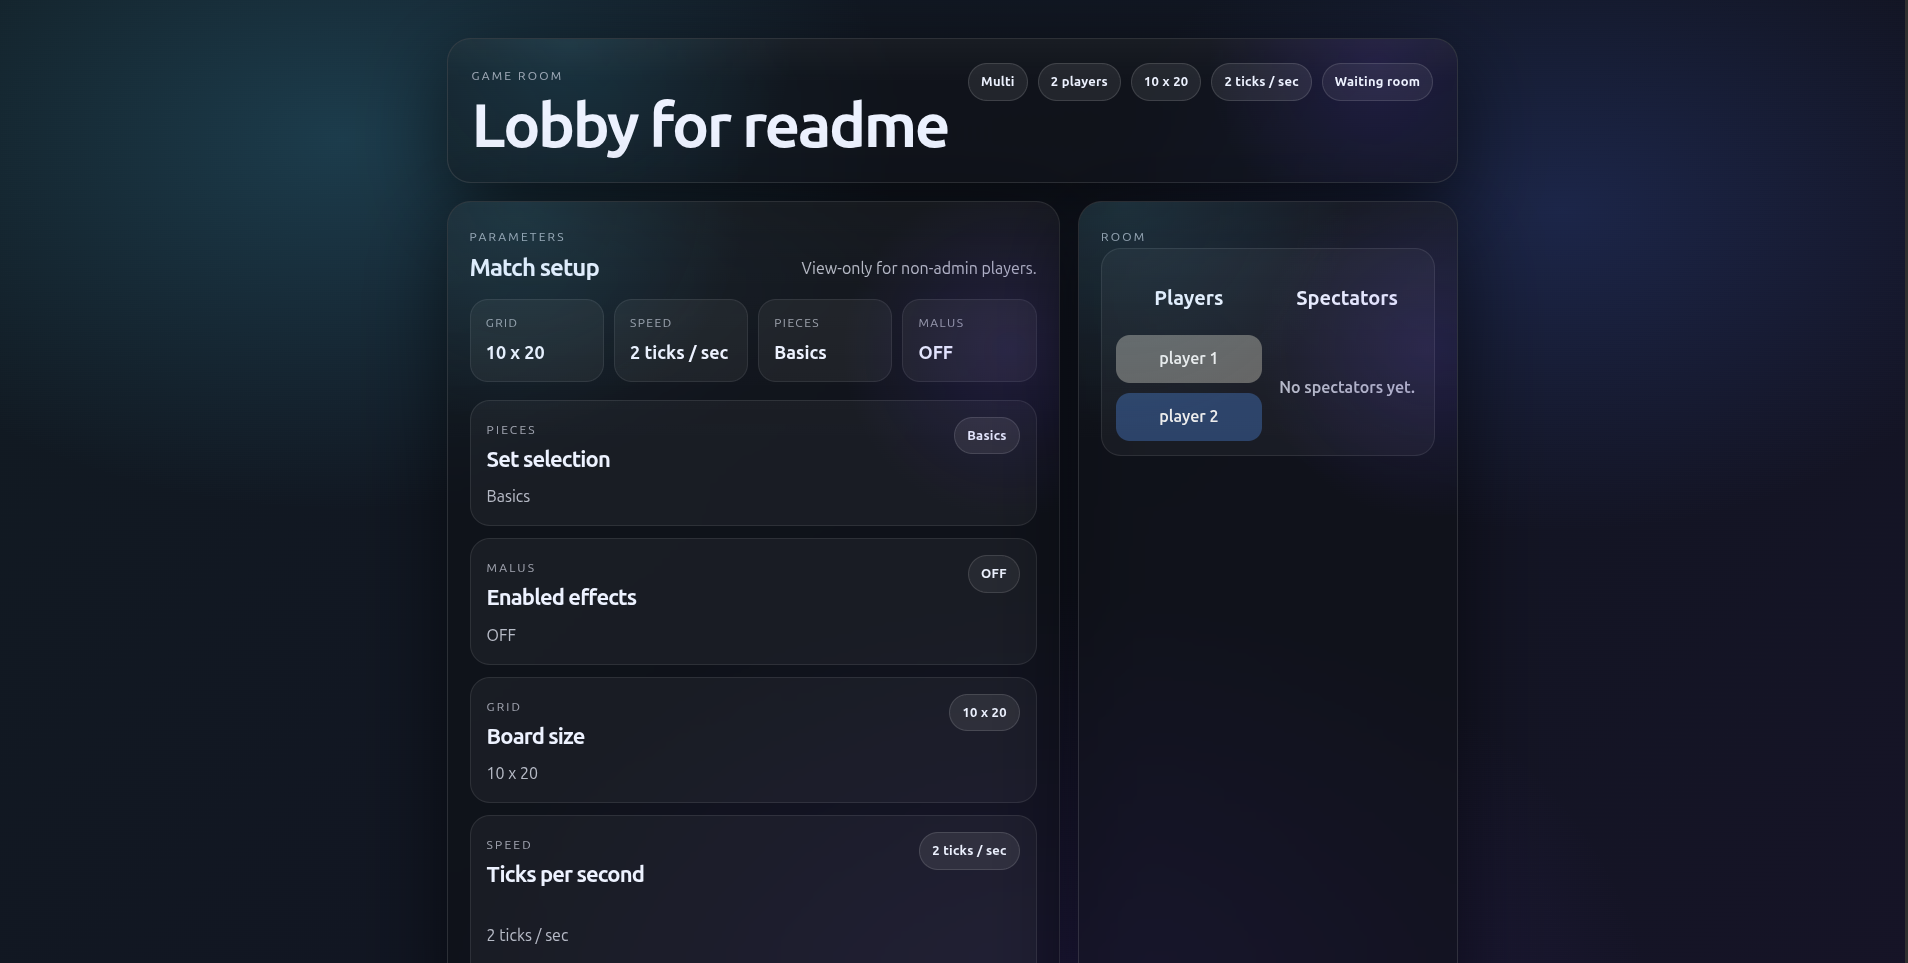
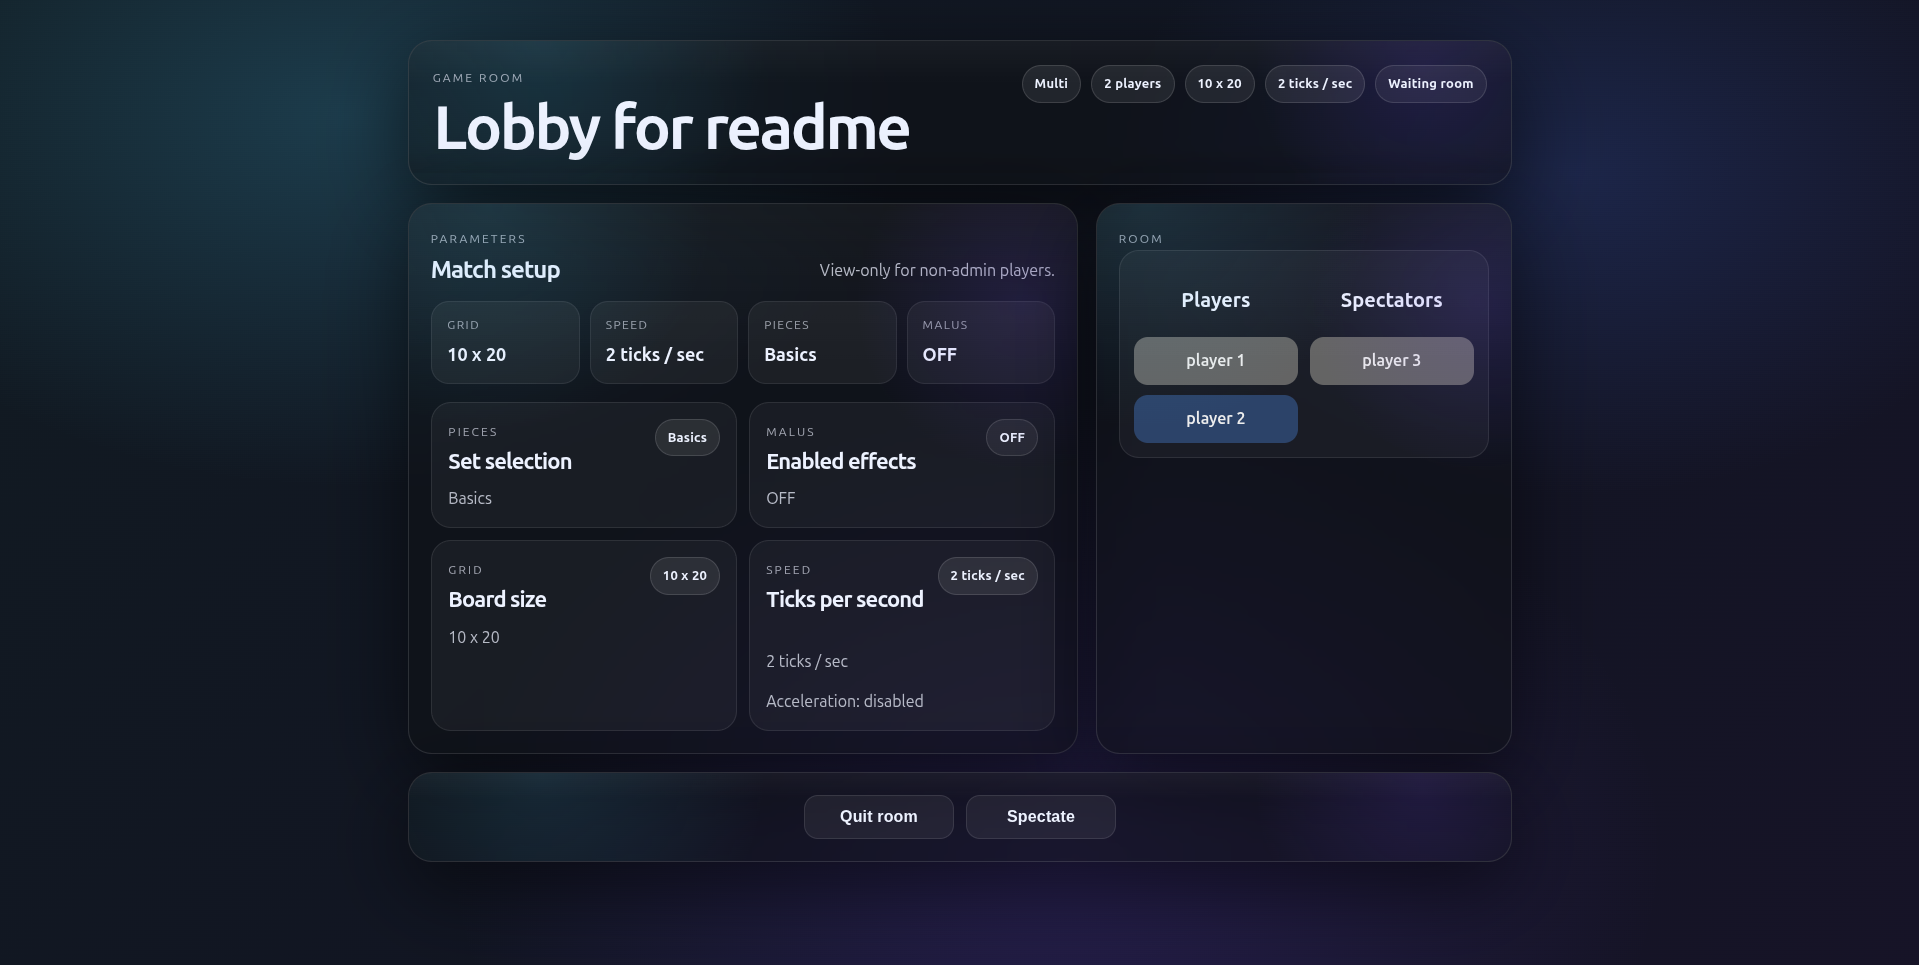
patch grid size for spectator, compress room view

diff --git a/client/src/page/Game/Game.tsx b/client/src/page/Game/Game.tsx
@@ -42,19 +42,31 @@ export default function Game() {
     const currentTheme = useSelector((state: RootState) => state.theme);
     const dispatch = useDispatch();
 
-    const panelRef = useRef<HTMLElement | null>(null);
-    const [panelSize, setPanelSize] = useState<{ width: number; height: number }>({ width: 0, height: 0 });
+    const gamePanelRef = useRef<HTMLElement | null>(null);
+    const [gamePanelSize, setgamePanelSize] = useState<{ width: number; height: number }>({ width: 0, height: 0 });
+
+    const spectatorPanelRef = useRef<HTMLDivElement | null>(null);
+    const [spectatorPanelSize, setspectatorPanelSize] = useState<{ width: number; height: number }>({ width: 0, height: 0 });
 
     useEffect(() => {
-        const el = panelRef.current;
-        if (!el || typeof ResizeObserver === 'undefined') return;
+        if (typeof ResizeObserver === 'undefined') return;
 
         const ro = new ResizeObserver((entries) => {
-            const rect = entries[0]?.contentRect;
-            if (!rect) return;
-            setPanelSize({ width: rect.width, height: rect.height });
+            for (const entry of entries) {
+                const rect = entry.contentRect;
+
+                if (entry.target === gamePanelRef.current) {
+                    setgamePanelSize({ width: rect.width, height: rect.height });
+                }
+                else if (entry.target === spectatorPanelRef.current) {
+                    setspectatorPanelSize({ width: rect.width, height: rect.height });
+                }
+            }
         });
-        ro.observe(el);
+
+        if (gamePanelRef.current) ro.observe(gamePanelRef.current);
+        if (spectatorPanelRef.current) ro.observe(spectatorPanelRef.current);
+
         return () => ro.disconnect();
     }, []);
 
@@ -205,8 +217,8 @@ export default function Game() {
     const nextPiece = game.nextPiece;
 
     const cellSize = useMemo(() => {
-        const width = panelSize.width;
-        const height = panelSize.height;
+        const width = gamePanelSize.width;
+        const height = gamePanelSize.height;
         if (width <= 0 || height <= 0) return 32;
 
         const safeWidth = Math.max(0, width - 24);
@@ -217,12 +229,22 @@ export default function Game() {
         const cellPx = Math.min(safeWidth / boardCellsX, safeHeight / boardCellsY);
 
         return Math.max(10, Math.min(80, cellPx));
-    }, [grid.height, grid.width, panelSize.height, panelSize.width]);
+    }, [grid.height, grid.width, gamePanelSize.height, gamePanelSize.width]);
 
     const spectrumCellSize = useMemo(() => {
-        const v = cellSize * 0.58;
-        return Math.max(14, Math.min(30, v));
-    }, [cellSize]);
+        const width = spectatorPanelSize.width;
+        const height = spectatorPanelSize.height;
+        if (width <= 0 || height <= 0) return 16;
+
+        const safeWidth = Math.max(0, width - 24);
+        const safeHeight = Math.max(0, height - 80);
+
+        const boardCellsX = grid.width;
+        const boardCellsY = Math.max(grid.height, 5);
+        const cellPx = Math.min(safeWidth / boardCellsX, safeHeight / boardCellsY);
+
+        return Math.max(5, Math.min(40, cellPx));
+    }, [grid.height, grid.width, spectatorPanelSize.height, spectatorPanelSize.width]);
 
     const pieceX = (piece?.x ?? 0) * cellSize;
     const pieceY = (piece?.y ?? 0) * cellSize;
@@ -243,7 +265,7 @@ export default function Game() {
     }
 
     const gameStyle = createGameTheme(currentTheme, cellSize);
-    const spectrumStyle = createSpectrumTheme(currentTheme, cellSize, spectrumCellSize / 2, room);
+    const spectrumStyle = createSpectrumTheme(currentTheme, cellSize, spectrumCellSize, room);
 
     const boardWidthPx = (grid.width + 6) * cellSize;
     const boardHeightPx = Math.max(grid.height, 5) * cellSize;
@@ -269,7 +291,7 @@ export default function Game() {
             <div className="game-split" aria-label="Game layout">
                 <section className="game-panel game-side game-side-left" aria-label="Other players (left)" style={spectrumStyle}>
                     <div className="game-side-stack">
-                        <div className="game-frame">
+                        <div className="game-frame" ref={spectatorPanelRef}>
                             {spectrumList[0] ? renderSpectrum(spectrumList[0]) : <div className="game-frame-empty" />}
                         </div>
                         <div className="game-frame">
@@ -280,7 +302,7 @@ export default function Game() {
 
                 <div className="game-divider" aria-hidden="true" />
 
-                <section className="game-panel game-center" aria-label="Your game" ref={panelRef}>
+                <section className="game-panel game-center" aria-label="Your game" ref={gamePanelRef}>
                     <header className="game-left-head">
                         <h2 className="game-left-title">Tetris</h2>
                         <div className="game-left-badge" aria-hidden="true" />

diff --git a/client/src/page/Spectator/Spectator.tsx b/client/src/page/Spectator/Spectator.tsx
@@ -1,7 +1,7 @@
 import '../Game/Game.css';
 import './Spectator.css';
 
-import { useEffect, useMemo } from 'react';
+import { useEffect, useMemo, useRef, useState } from 'react';
 import { useNavigate } from 'react-router-dom';
 import { useSelector, useDispatch } from 'react-redux';
 import type { RootState } from '../../store/store';
@@ -16,6 +16,34 @@ export default function Spectator() {
     const room = useSelector((state: RootState) => state.room);
     const spectrums = useSelector((state: RootState) => state.spectrums);
     const currentTheme = useSelector((state: RootState) => state.theme);
+
+    const centerSpectatorRef = useRef<HTMLElement | null>(null);
+    const [centerSpectatorSize, setcenterSpectatorSize] = useState<{ width: number; height: number }>({ width: 0, height: 0 });
+
+    const spectatorPanelRef = useRef<HTMLDivElement | null>(null);
+    const [spectatorPanelSize, setspectatorPanelSize] = useState<{ width: number; height: number }>({ width: 0, height: 0 });
+
+    useEffect(() => {
+        if (typeof ResizeObserver === 'undefined') return;
+
+        const ro = new ResizeObserver((entries) => {
+            for (const entry of entries) {
+                const rect = entry.contentRect;
+
+                if (entry.target === centerSpectatorRef.current) {
+                    setcenterSpectatorSize({ width: rect.width, height: rect.height });
+                }
+                else if (entry.target === spectatorPanelRef.current) {
+                    setspectatorPanelSize({ width: rect.width, height: rect.height });
+                }
+            }
+        });
+
+        if (centerSpectatorRef.current) ro.observe(centerSpectatorRef.current);
+        if (spectatorPanelRef.current) ro.observe(spectatorPanelRef.current);
+
+        return () => ro.disconnect();
+    }, []);
 
     useEffect(() => {
         if (room.id === '') {
@@ -56,10 +84,47 @@ export default function Spectator() {
         .slice(1)
         .map((entry) => entry.spectrum);
 
+    const centerSpectrumCellSize = useMemo(() => {
+        const width = centerSpectatorSize.width;
+        const height = centerSpectatorSize.height;
+        if (width <= 0 || height <= 0 || !centerSpectrum) return 32;
+
+        const safeWidth = Math.max(0, width - 24);
+        const safeHeight = Math.max(0, height - 80);
+
+        const boardCellsX = centerSpectrum.grid.width;
+        const boardCellsY = Math.max(centerSpectrum.grid.height, 5);
+        const cellPx = Math.min(safeWidth / boardCellsX, safeHeight / boardCellsY);
+
+        return Math.max(10, Math.min(80, cellPx));
+    }, [centerSpectrum?.grid.height, centerSpectrum?.grid.width, centerSpectatorSize.height, centerSpectatorSize.width]);
+
+    const spectrumCellSize = useMemo(() => {
+        const width = spectatorPanelSize.width;
+        const height = spectatorPanelSize.height;
+        if (width <= 0 || height <= 0 || !centerSpectrum) return 16;
+
+        const safeWidth = Math.max(0, width - 24);
+        const safeHeight = Math.max(0, height - 80);
+
+        const boardCellsX = centerSpectrum.grid.width;
+        const boardCellsY = Math.max(centerSpectrum.grid.height, 5);
+        const cellPx = Math.min(safeWidth / boardCellsX, safeHeight / boardCellsY);
+
+        return Math.max(5, Math.min(40, cellPx));
+    }, [centerSpectrum?.grid.height, centerSpectrum?.grid.width, spectatorPanelSize.height, spectatorPanelSize.width]);
+
+    const centerSpectrumStyle = createSpectrumTheme(
+        currentTheme,
+        0,
+        centerSpectrumCellSize,
+        room
+    );
+
     const spectrumStyle = createSpectrumTheme(
         currentTheme,
-        32,
-        18,
+        0,
+        spectrumCellSize,
         room
     );
 
@@ -106,7 +171,7 @@ export default function Spectator() {
                     style={spectrumStyle}
                 >
                     <div className="game-side-stack">
-                        <div className="game-frame">
+                        <div className="game-frame" ref={spectatorPanelRef}>
                             {sideSpectrums[0]
                                 ? renderSpectrum(
                                       sideSpectrums[0]
@@ -132,7 +197,7 @@ export default function Spectator() {
 
                 <section
                   className="game-panel game-center"
-                    style={spectrumStyle}>
+                    style={centerSpectrumStyle} ref={centerSpectatorRef}>
                     <div className="game-left-stage">
                         <div
                             className="game-frame spectator-main-frame"

diff --git a/client/src/page/Lobby/Lobby.css b/client/src/page/Lobby/Lobby.css
@@ -177,6 +177,7 @@
 .settings-stack {
     display: grid;
     gap: 12px;
+    grid-template-columns: repeat(2, minmax(0, 1fr));
 }
 
 .setting-card {
@@ -206,10 +207,24 @@
 }
 
 .toggle-group {
-    display: inline-grid;
-    grid-template-columns: repeat(2, minmax(0, 1fr));
+    display: flex;
+    flex-direction: row;
+    flex-wrap: nowrap; /* Force les boutons à rester sur une seule ligne */
     gap: 8px;
-    width: min(320px, 100%);
+    width: 100%;
+}
+
+.toggle-pill {
+    text-align: center;
+    font-size: 14px;
+    padding: 10px 14px;
+}
+
+.toggle-group button {
+    flex: 1;
+    font-size: 14px;
+    padding: 10px 14px;
+    white-space: nowrap;
 }
 
 .toggle-group button,
@@ -272,12 +287,19 @@
 }
 
 .field--toggle {
-    align-content: end;
+    display: flex;
+    flex-direction: row;
+    align-items: center;
+    justify-content: space-between;
+    gap: 12px;
 }
 
 .stepper-field {
-    display: grid;
-    gap: 8px;
+    display: flex;
+    flex-direction: row;
+    align-items: center;
+    justify-content: space-between;
+    gap: 12px;
 }
 
 .stepper-field > span {
@@ -286,29 +308,39 @@
 }
 
 .stepper {
-    display: grid;
-    grid-template-columns: 44px minmax(0, 1fr) 44px;
+    display: flex;
+    flex-direction: row;
     align-items: center;
-    gap: 8px;
+    justify-content: space-between;
     padding: 6px;
     border-radius: 16px;
     background: rgba(255, 255, 255, 0.05);
     border: 1px solid rgba(255, 255, 255, 0.08);
+    gap: 6px;
 }
 
 .stepper button {
-    height: 42px;
+    width: 36px;
+    height: 36px;
+    flex-shrink: 0;
     padding: 0;
     border-radius: 12px;
-    font-size: 22px;
+    font-size: 18px;
     font-weight: 800;
     line-height: 1;
 }
 
 .stepper strong {
+    flex-grow: 1;
     text-align: center;
-    font-size: 22px;
+    font-size: 18px;
     letter-spacing: -0.03em;
+}
+
+.stepper,
+.toggle-pill {
+    width: 140px;
+    box-sizing: border-box;
 }
 
 .number-input {
@@ -316,10 +348,6 @@
     border-radius: 14px;
     padding: 12px 14px;
     font-size: 18px;
-}
-
-.advanced-grid {
-    grid-template-columns: repeat(3, minmax(0, 1fr));
 }
 
 .speed-summary {
@@ -340,17 +368,15 @@
 .player-list {
     min-width: 0;
     text-align: center;
+    display: grid;
+    gap: 10px;
+    align-content: start;
 }
 
 .people-column h3,
 .player-list h3 {
     font-size: 20px;
     margin-bottom: 12px;
-}
-
-.player-list {
-    display: grid;
-    gap: 10px;
 }
 
 .player-list .player-item,
@@ -407,8 +433,7 @@
         text-align: left;
     }
 
-    .settings-summary,
-    .advanced-grid {
+    .settings-summary {
         grid-template-columns: repeat(2, minmax(0, 1fr));
     }
 
@@ -432,12 +457,9 @@
     .settings-summary,
     .size-grid,
     .advanced-grid,
-    .room-info {
+    .room-info,
+    .settings-stack {
         grid-template-columns: 1fr;
-    }
-
-    .stepper {
-        grid-template-columns: 40px minmax(0, 1fr) 40px;
     }
 
     .toggle-group,

diff --git a/client/src/page/Lobby/Lobby.tsx b/client/src/page/Lobby/Lobby.tsx
@@ -157,7 +157,7 @@ export default function Lobby() {
     const roomLabel = roomId.length > 0 ? `Lobby ${roomId}` : 'Lobby';
     const playerCount = room.players.length;
     const gameModeLabel = playerCount > 1 ? 'Multi' : 'Solo';
-    const pieceSetLabel = room.allPieces ? 'Basics + bonus' : 'Basics';
+    const pieceSetLabel = room.allPieces ? 'All' : 'Basics';
     const malusLabel = room.malus ? 'ON' : 'OFF';
     const speedLabel = `${room.gameSpeed.speed} ticks / sec`;
     const gridLabel = `${room.size.w} x ${room.size.h}`;
@@ -247,7 +247,7 @@ export default function Lobby() {
                                             className={room.allPieces ? 'is-active' : ''}
                                             onClick={() => updateSettings({ allPieces: true })}
                                         >
-                                            Basics + bonus
+                                            All
                                         </button>
                                     </div>
                                 ) : (
